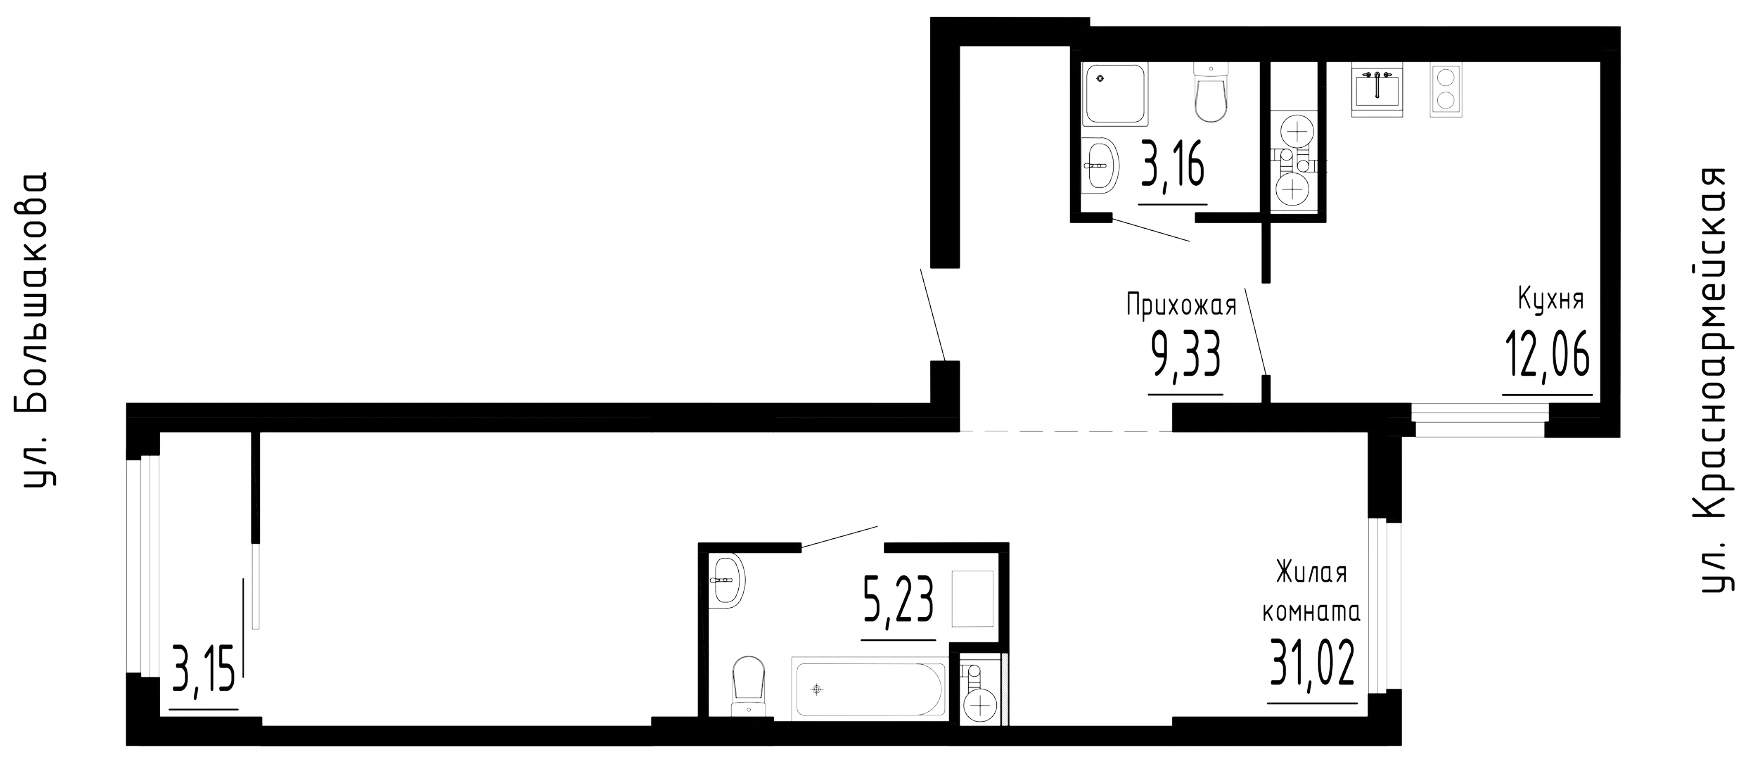
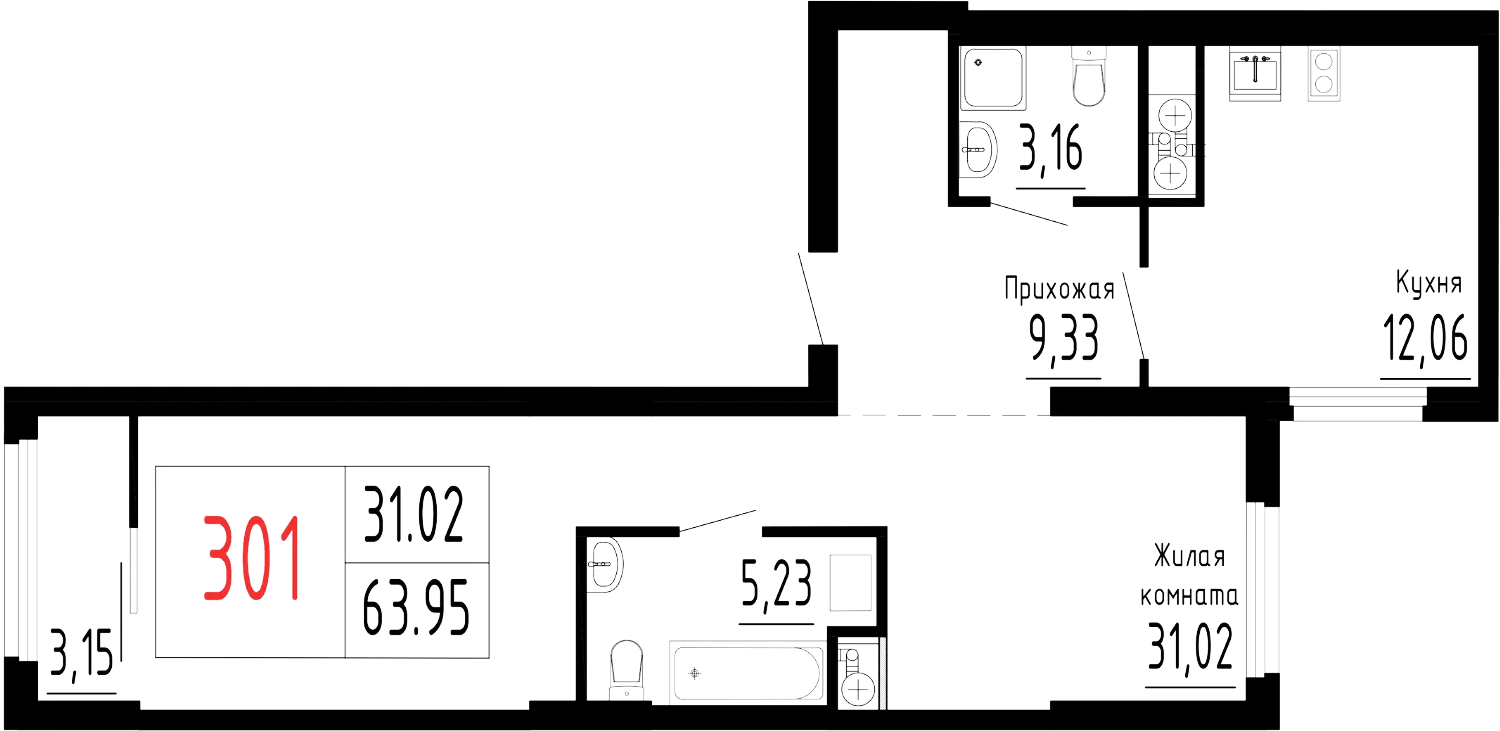
Сторис Лувр: без названий улиц, номер квартиры на планировке остаётся
Claude-Session: https://claude.ai/code/session_01Q5YSgwhC6B6eU9eufRuaGy

diff --git a/stories/louvre/story.html b/stories/louvre/story.html
@@ -20,8 +20,8 @@ body{width:1080px;height:1920px;background:var(--bg);font-family:Inter;color:var
 .sub i{display:inline-block;width:5px;height:5px;border-radius:50%;background:var(--wine);vertical-align:middle;margin:0 18px;font-style:normal}
 .plan{position:absolute;top:560px;left:110px;right:110px;height:760px;display:flex;align-items:center;justify-content:center}
 .plan img{max-width:860px;max-height:720px}
-.wide .plan{left:20px;right:20px}
-.wide .plan img{max-width:1040px}
+.wide .plan{left:50px;right:50px}
+.wide .plan img{max-width:980px}
 .rooms{position:absolute;top:1370px;left:110px;right:110px;display:flex;justify-content:space-between;border-top:1px solid var(--line);border-bottom:1px solid var(--line);padding:26px 0}
 .rooms div{text-align:center;flex:1}
 .rooms div+div{border-left:1px solid var(--line)}

diff --git a/stories/louvre/prep_plan.py b/stories/louvre/prep_plan.py
@@ -1,0 +1,10 @@
+# python3 prep_plan.py <src> <out.png> x0 y0 x1 y1   (crop in source pixels; background -> transparent)
+import sys
+from PIL import Image
+src,out,*box=sys.argv[1:]
+c=Image.open(src).convert('RGB').crop(tuple(map(int,box))).convert('RGBA'); px=c.load()
+for y in range(c.size[1]):
+  for x in range(c.size[0]):
+    r,g,b,a=px[x,y]; l=(r+g+b)/3
+    px[x,y]=(r,g,b,0 if l>245 else min(255,int((250-l)*255/200)))
+c=c.crop(c.getbbox()); c.save(out)

diff --git a/stories/louvre/RULES.md b/stories/louvre/RULES.md
@@ -5,4 +5,5 @@
 - Внизу всегда «ПОДРОБНОСТИ: 303-99-99».
 - Скидки и перечёркнутой цены больше нет (только у кв. 1 была). Логотип — с сайта, assets/logo.png.
 - «Квартира №…» — чёрным. Цена — на бордовой плашке (вариант А, выбран 23.11).
+- С планировки убирать названия улиц; номер квартиры и табличку застройщика НЕ удалять.
 - Новая сторис: `node render.js data/kv-N.json out/kv-N.png`.
